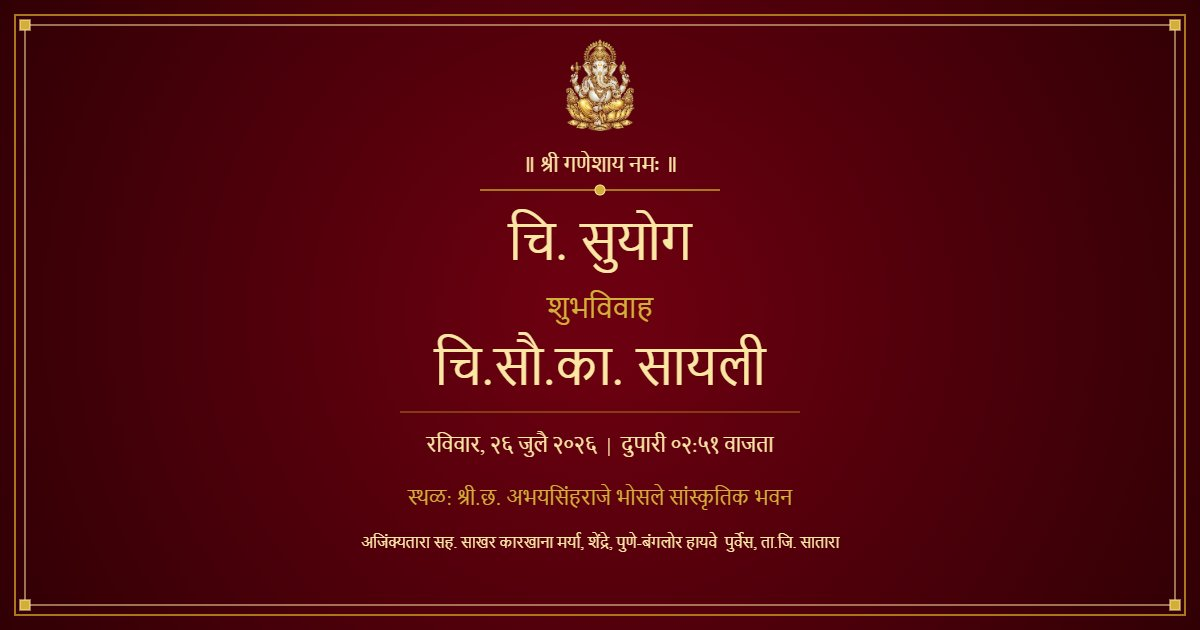
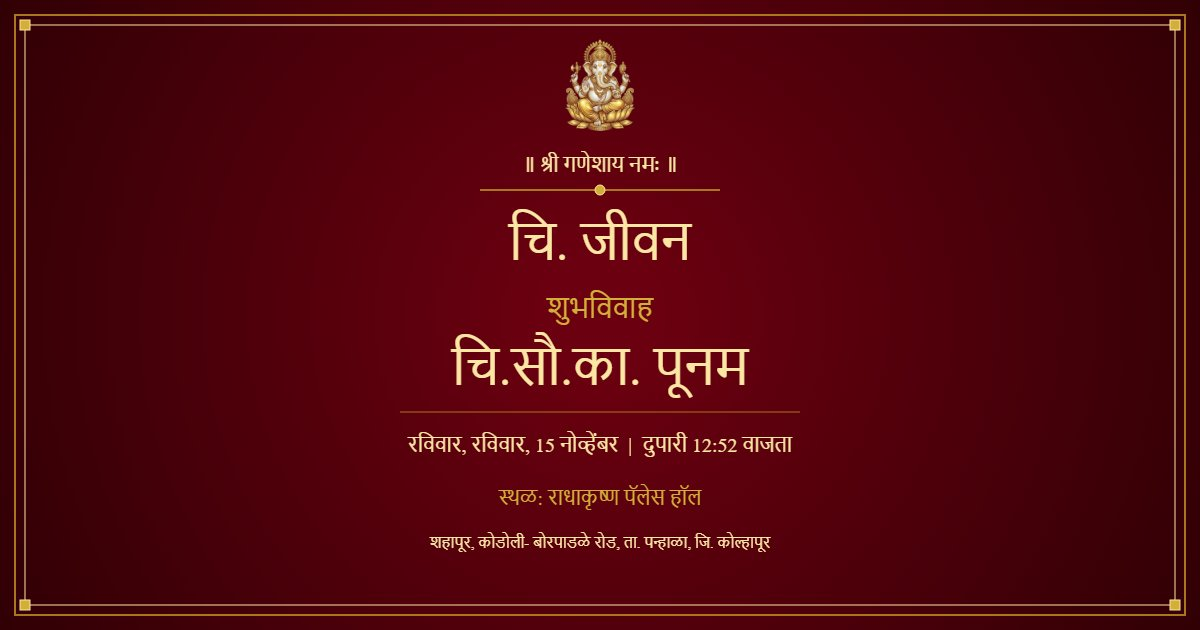
sendpic

diff --git a/index.html b/index.html
@@ -7,27 +7,33 @@
   <meta name="viewport" content="width=device-width, initial-scale=1.0" />
 
   <!-- Premium SEO and WhatsApp Link Preview Tags -->
-  <title>💍जीवन ❤ पूनम | लग्न पत्रिका</title>
-  <meta name="description" content="आपल्या शुभ आशीर्वादाच्या साक्षीने
-आमच्या शुभविवाह सोहळ्यास सस्नेह आमंत्रण! (पत्रिका पाहण्यासाठी खाली दिलेल्या link वरती Touch करा)" />
+  <title>जीवन ❤ पूनम | लग्न पत्रिका</title>
+  <meta name="description" content="आपल्या शुभ आशीर्वादाच्या साक्षीने आमच्या शुभविवाह सोहळ्यास सस्नेह आमंत्रण! (पत्रिका पाहण्यासाठी खाली दिलेल्या link वरती Touch करा)" />
 
   <!-- Open Graph (WhatsApp / Facebook / Telegram / LinkedIn Previews) -->
+  <meta property="og:site_name" content="जीवन ❤ पूनम | लग्न पत्रिका" />
   <meta property="og:title" content="जीवन ❤ पूनम | लग्न पत्रिका" />
-  <meta property="og:description" content="आपल्या शुभ आशीर्वादाच्या साक्षीने
-आमच्या शुभविवाह सोहळ्यास सस्नेह आमंत्रण! (पत्रिका पाहण्यासाठी खाली दिलेल्या link वरती Touch करा)" />
-  <meta property="og:image" content="https://suyogsayali.netlify.app/og-image.jpg" />
-  <meta property="og:url" content="https://suyogsayali.netlify.app/" />
+  <meta property="og:description" content="आपल्या शुभ आशीर्वादाच्या साक्षीने आमच्या शुभविवाह सोहळ्यास सस्नेह आमंत्रण! (पत्रिका पाहण्यासाठी खाली दिलेल्या link वरती Touch करा)" />
+  <meta property="og:image" content="https://jivan-punam.netlify.app/og-image.jpg" />
+  <meta property="og:image:secure_url" content="https://jivan-punam.netlify.app/og-image.jpg" />
+  <meta property="og:url" content="https://jivan-punam.netlify.app/" />
   <meta property="og:type" content="website" />
   <meta property="og:image:type" content="image/jpeg" />
   <meta property="og:image:width" content="1200" />
   <meta property="og:image:height" content="630" />
+  <meta property="og:image:alt" content="जीवन ❤ पूनम | लग्न पत्रिका" />
+
+  <!-- Schema.org microdata (WhatsApp Android/iOS fallback crawler) -->
+  <meta itemprop="name" content="जीवन ❤ पूनम | लग्न पत्रिका" />
+  <meta itemprop="description" content="आपल्या शुभ आशीर्वादाच्या साक्षीने आमच्या शुभविवाह सोहळ्यास सस्नेह आमंत्रण! (पत्रिका पाहण्यासाठी खाली दिलेल्या link वरती Touch करा)" />
+  <meta itemprop="image" content="https://jivan-punam.netlify.app/og-image.jpg" />
+  <link rel="image_src" href="https://jivan-punam.netlify.app/og-image.jpg" />
 
   <!-- Twitter Card (X Previews) -->
   <meta name="twitter:card" content="summary_large_image" />
-  <meta name="twitter:title" content="💍 Jeevan ❤ Poonam | Wedding Invitation" />
-  <meta name="twitter:description" content="आपल्या शुभ आशीर्वादाच्या साक्षीने
-आमच्या शुभविवाह सोहळ्यास सस्नेह आमंत्रण! (पत्रिका पाहण्यासाठी खाली दिलेल्या link वरती Touch करा)" />
-  <meta name="twitter:image" content="https://suyogsayali.netlify.app/og-image.jpg" />
+  <meta name="twitter:title" content="जीवन ❤ पूनम | लग्न पत्रिका" />
+  <meta name="twitter:description" content="आपल्या शुभ आशीर्वादाच्या साक्षीने आमच्या शुभविवाह सोहळ्यास सस्नेह आमंत्रण! (पत्रिका पाहण्यासाठी खाली दिलेल्या link वरती Touch करा)" />
+  <meta name="twitter:image" content="https://jivan-punam.netlify.app/og-image.jpg" />
 </head>
 
 <body>

diff --git a/src/components/AudioPlayer.jsx b/src/components/AudioPlayer.jsx
@@ -9,21 +9,42 @@ export const AudioPlayer = () => {
 
   return (
     <div 
-      className="fixed bottom-6 left-6 z-40 flex items-center gap-3"
+      className="fixed top-4 left-4 md:top-6 md:left-6 z-40 flex items-center gap-2.5"
       onMouseEnter={() => setShowVolumeSlider(true)}
       onMouseLeave={() => setShowVolumeSlider(false)}
     >
-      {/* Volume slider container */}
+      {/* Floating spinning music button */}
+      <button
+        onClick={togglePlay}
+        aria-label={isPlaying ? "संगीत थांबवा" : "संगीत सुरू करा"}
+        className="relative w-11 h-11 md:w-12 md:h-12 flex items-center justify-center rounded-full border border-gold-med/60 bg-gradient-to-br from-primary-darkmaroon to-primary-maroon shadow-[0_0_15px_rgba(212,175,55,0.4)] hover:scale-105 transition-all duration-300 group cursor-pointer shrink-0"
+      >
+        {/* Animated outer gold aura ring */}
+        <div className="absolute inset-0 rounded-full border border-gold-light/20 scale-100 group-hover:scale-110 transition-transform duration-500" />
+        
+        {/* Spinning musical disk */}
+        <div className={`text-gold-med group-hover:text-gold-light transition-colors ${isPlaying ? "animate-spin-slow" : ""}`}>
+          <FaMusic size={16} />
+        </div>
+
+        {/* Small badge for play/pause indicators */}
+        <span className="absolute -top-1 -right-1 bg-gold-med text-primary-darkmaroon w-4 h-4 md:w-4.5 md:h-4.5 rounded-full flex items-center justify-center text-[8px] md:text-[9px] font-bold border border-primary-darkmaroon">
+          {isPlaying ? <FaPause size={6} /> : <FaPlay size={6} />}
+        </span>
+      </button>
+
+      {/* Volume slider container (expands to the right on hover) */}
       <div 
-        className={`flex items-center bg-primary-darkmaroon/95 border border-gold-med/40 py-2 px-3 rounded-full shadow-lg transition-all duration-300 ${
-          showVolumeSlider ? "opacity-100 translate-x-0 w-32" : "opacity-0 -translate-x-4 w-0 pointer-events-none overflow-hidden"
+        className={`flex items-center bg-primary-darkmaroon/95 border border-gold-med/40 py-1.5 px-3 rounded-full shadow-lg transition-all duration-300 ${
+          showVolumeSlider ? "opacity-100 translate-x-0 w-28 md:w-32" : "opacity-0 -translate-x-3 w-0 pointer-events-none overflow-hidden"
         }`}
       >
         <button 
           onClick={toggleMute}
-          className="text-gold-med hover:text-gold-light mr-2 transition-colors cursor-pointer"
+          className="text-gold-med hover:text-gold-light mr-2 transition-colors cursor-pointer shrink-0"
+          title={isMuted ? "ध्वनी सुरू करा" : "ध्वनी बंद करा"}
         >
-          {isMuted ? <FaVolumeMute size={14} /> : <FaVolumeUp size={14} />}
+          {isMuted ? <FaVolumeMute size={13} /> : <FaVolumeUp size={13} />}
         </button>
         <input 
           type="range" 
@@ -35,25 +56,6 @@ export const AudioPlayer = () => {
           className="w-full h-1 bg-gold-dark/30 rounded-lg appearance-none cursor-pointer accent-gold-med"
         />
       </div>
-
-      {/* Floating spinning music button */}
-      <button
-        onClick={togglePlay}
-        className={`relative w-12 h-12 flex items-center justify-center rounded-full border border-gold-med/60 bg-gradient-to-br from-primary-darkmaroon to-primary-maroon shadow-[0_0_15px_rgba(212,175,55,0.4)] hover:scale-105 transition-all duration-300 group cursor-pointer`}
-      >
-        {/* Animated outer gold aura ring */}
-        <div className="absolute inset-0 rounded-full border border-gold-light/20 scale-100 group-hover:scale-110 transition-transform duration-500" />
-        
-        {/* Spinning musical disk */}
-        <div className={`text-gold-med group-hover:text-gold-light transition-colors ${isPlaying ? "animate-spin-slow" : ""}`}>
-          <FaMusic size={18} />
-        </div>
-
-        {/* Small badge for play/pause indicators */}
-        <span className="absolute -top-1 -right-1 bg-gold-med text-primary-darkmaroon w-4.5 h-4.5 rounded-full flex items-center justify-center text-[9px] font-bold border border-primary-darkmaroon">
-          {isPlaying ? <FaPause size={6} /> : <FaPlay size={6} />}
-        </span>
-      </button>
     </div>
   );
 };

diff --git a/src/data/weddingData.js b/src/data/weddingData.js
@@ -55,8 +55,8 @@ export const weddingData = {
     dayEng: "Sunday",
     date: "रविवार, 15 नोव्हेंबर",
     dateEng: "Sunday, November 15",
-    time: "दुपारी ०२:५१ वाजता",
-    timeEng: "02:51 PM",
+    time: "दुपारी 12:52 वाजता",
+    timeEng: "12:52 PM",
     // tithi: "मिती आषाढ शु. १२, शके १९४८",
     tithiEng: "Mithi Ashadha Shuddha 12, Shake 1948",
     countdownDate: "2026-11-15T14:51:00", // ISO standard countdown
@@ -107,7 +107,7 @@ export const weddingData = {
   },
 
   // Family Directory (Traditional Senders and Welcomers)
- 
+
   // Sound and Video settings (relative public paths)
   assets: {
     backgroundMusic: "/music/background.mp3",

diff --git a/src/components/ThankYou.jsx b/src/components/ThankYou.jsx
@@ -5,7 +5,7 @@ import { weddingData } from "../data/weddingData";
 
 export const ThankYou = () => {
   return (
-    <section className="relative py-10 px-4 flex flex-col items-center justify-center text-center overflow-hidden">
+    <section className="relative pt-10 pb-28 md:pb-32 px-4 flex flex-col items-center justify-center text-center overflow-hidden">
       
       {/* Decorative floral watermark backdrop */}
       <div className="absolute w-[50vw] h-[50vw] bg-gold-med/5 rounded-full blur-[100px] pointer-events-none" />
